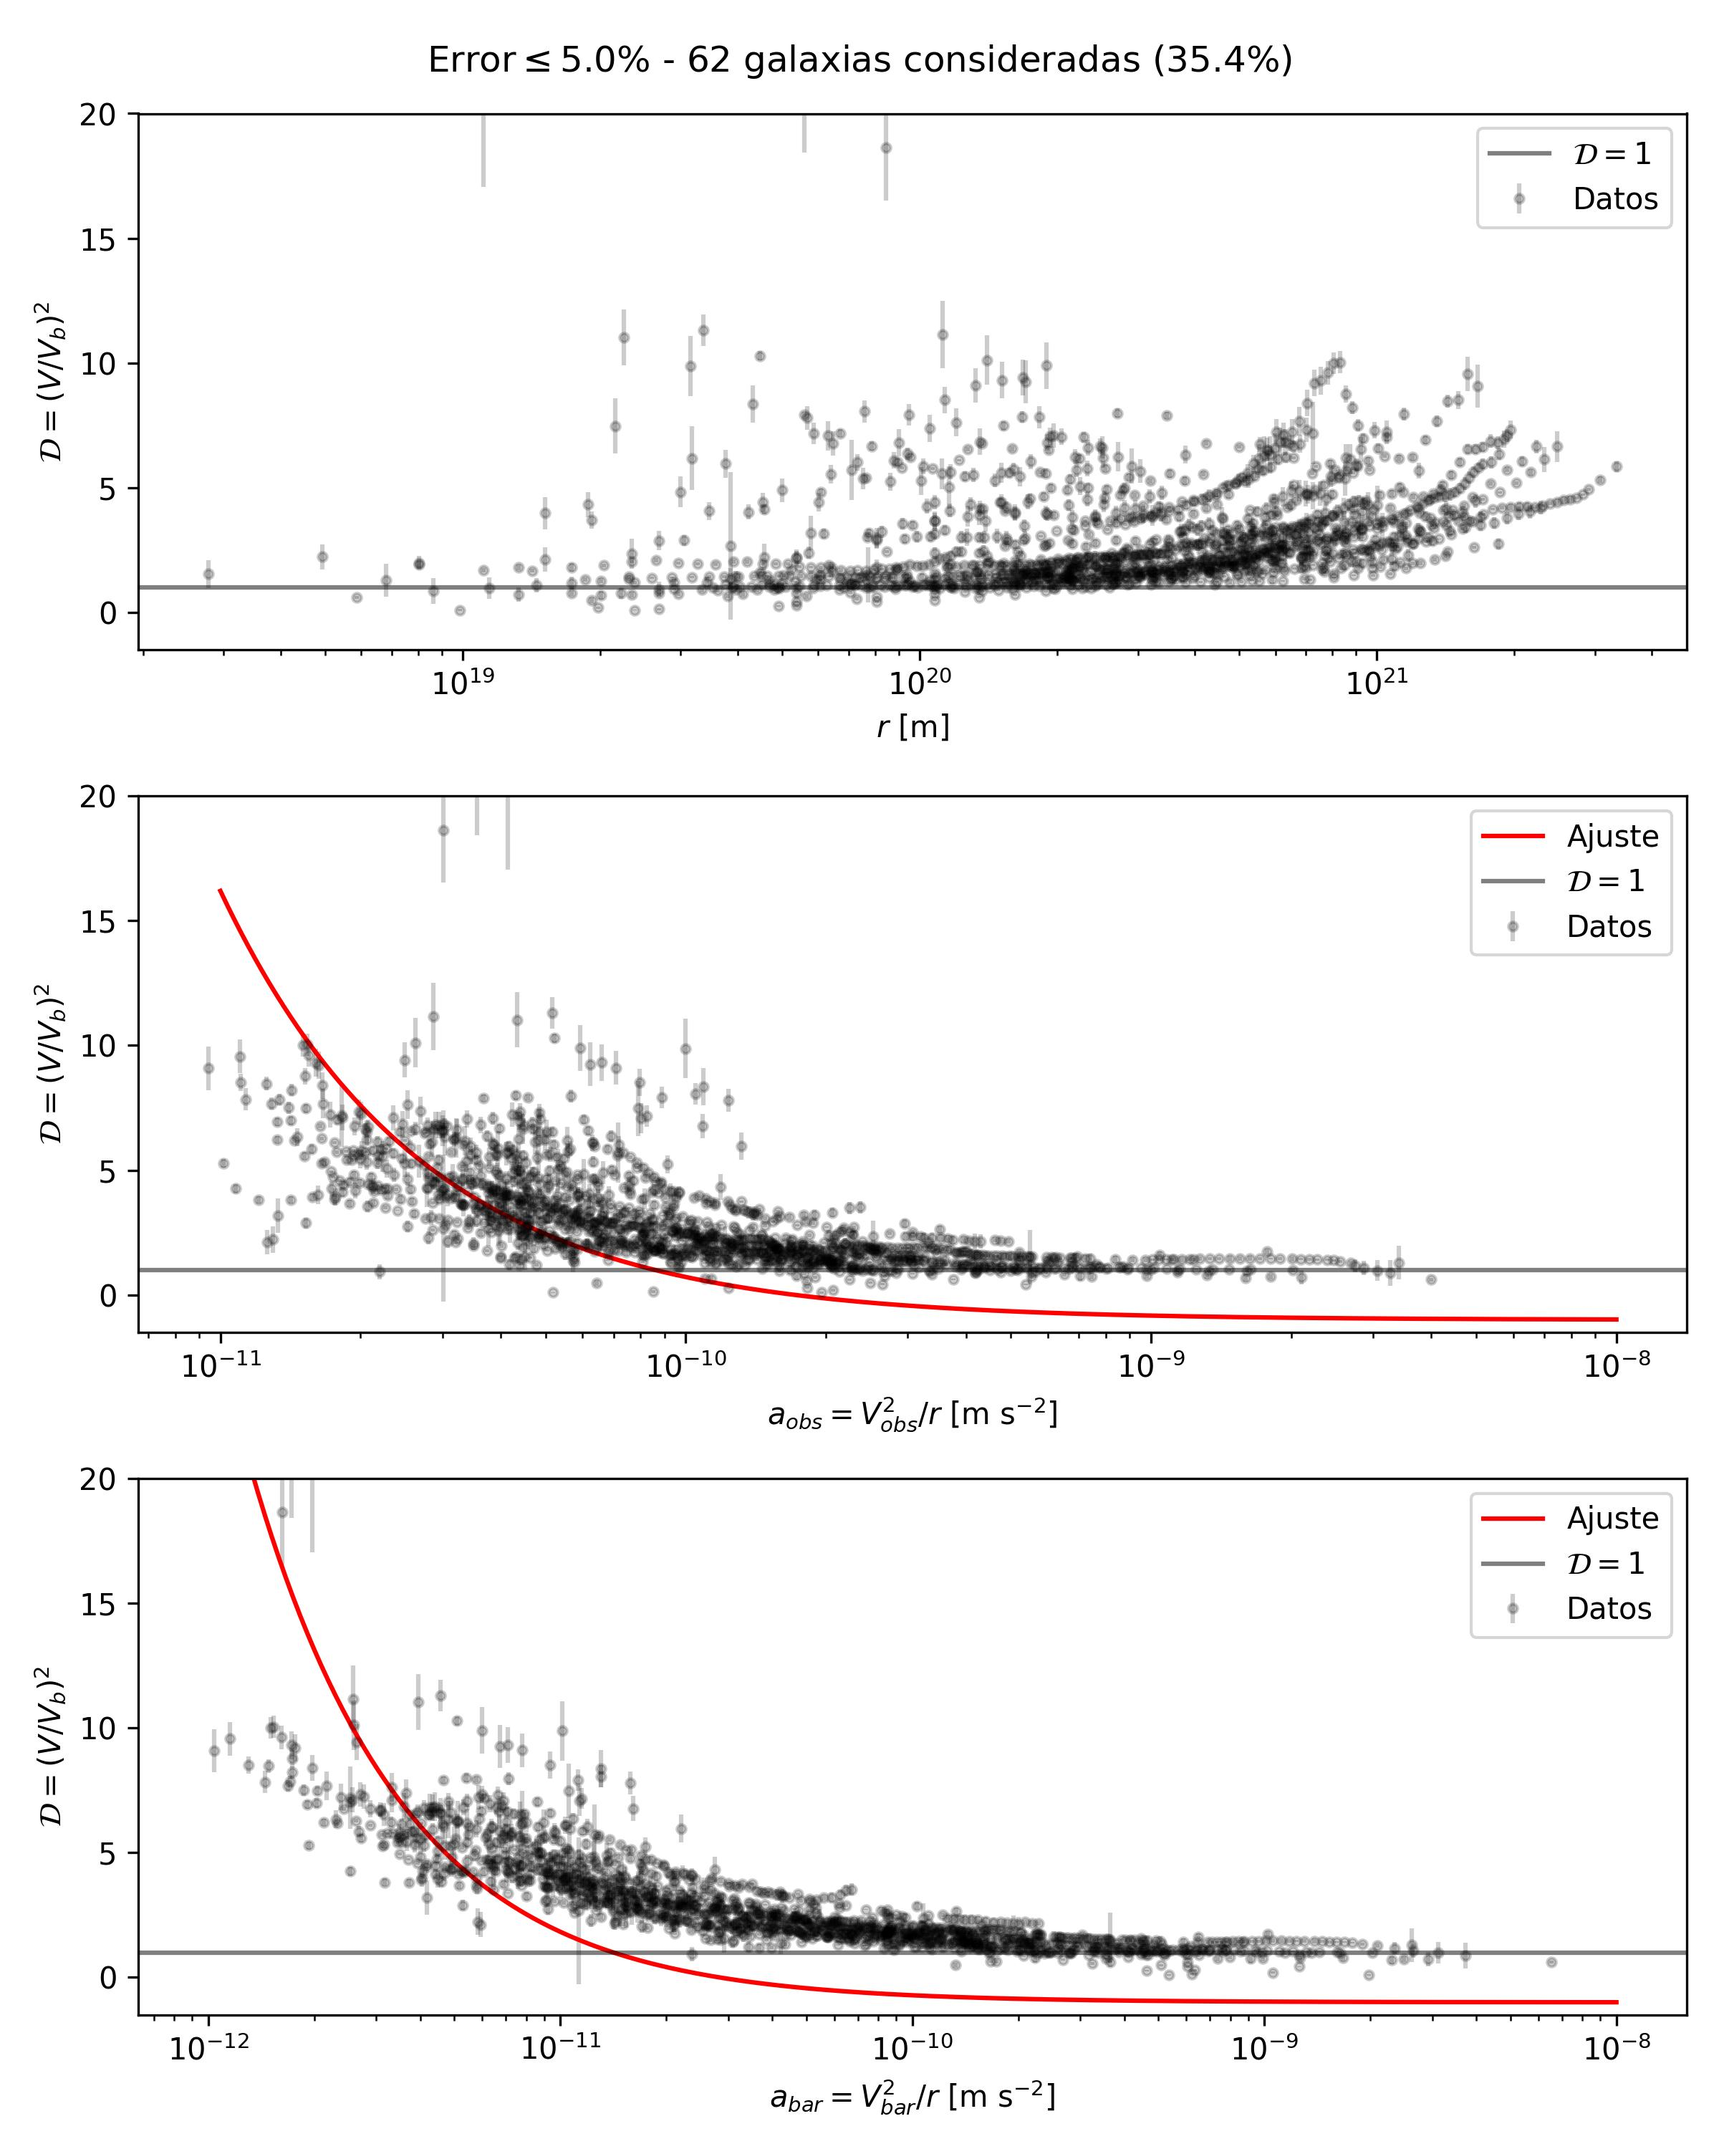
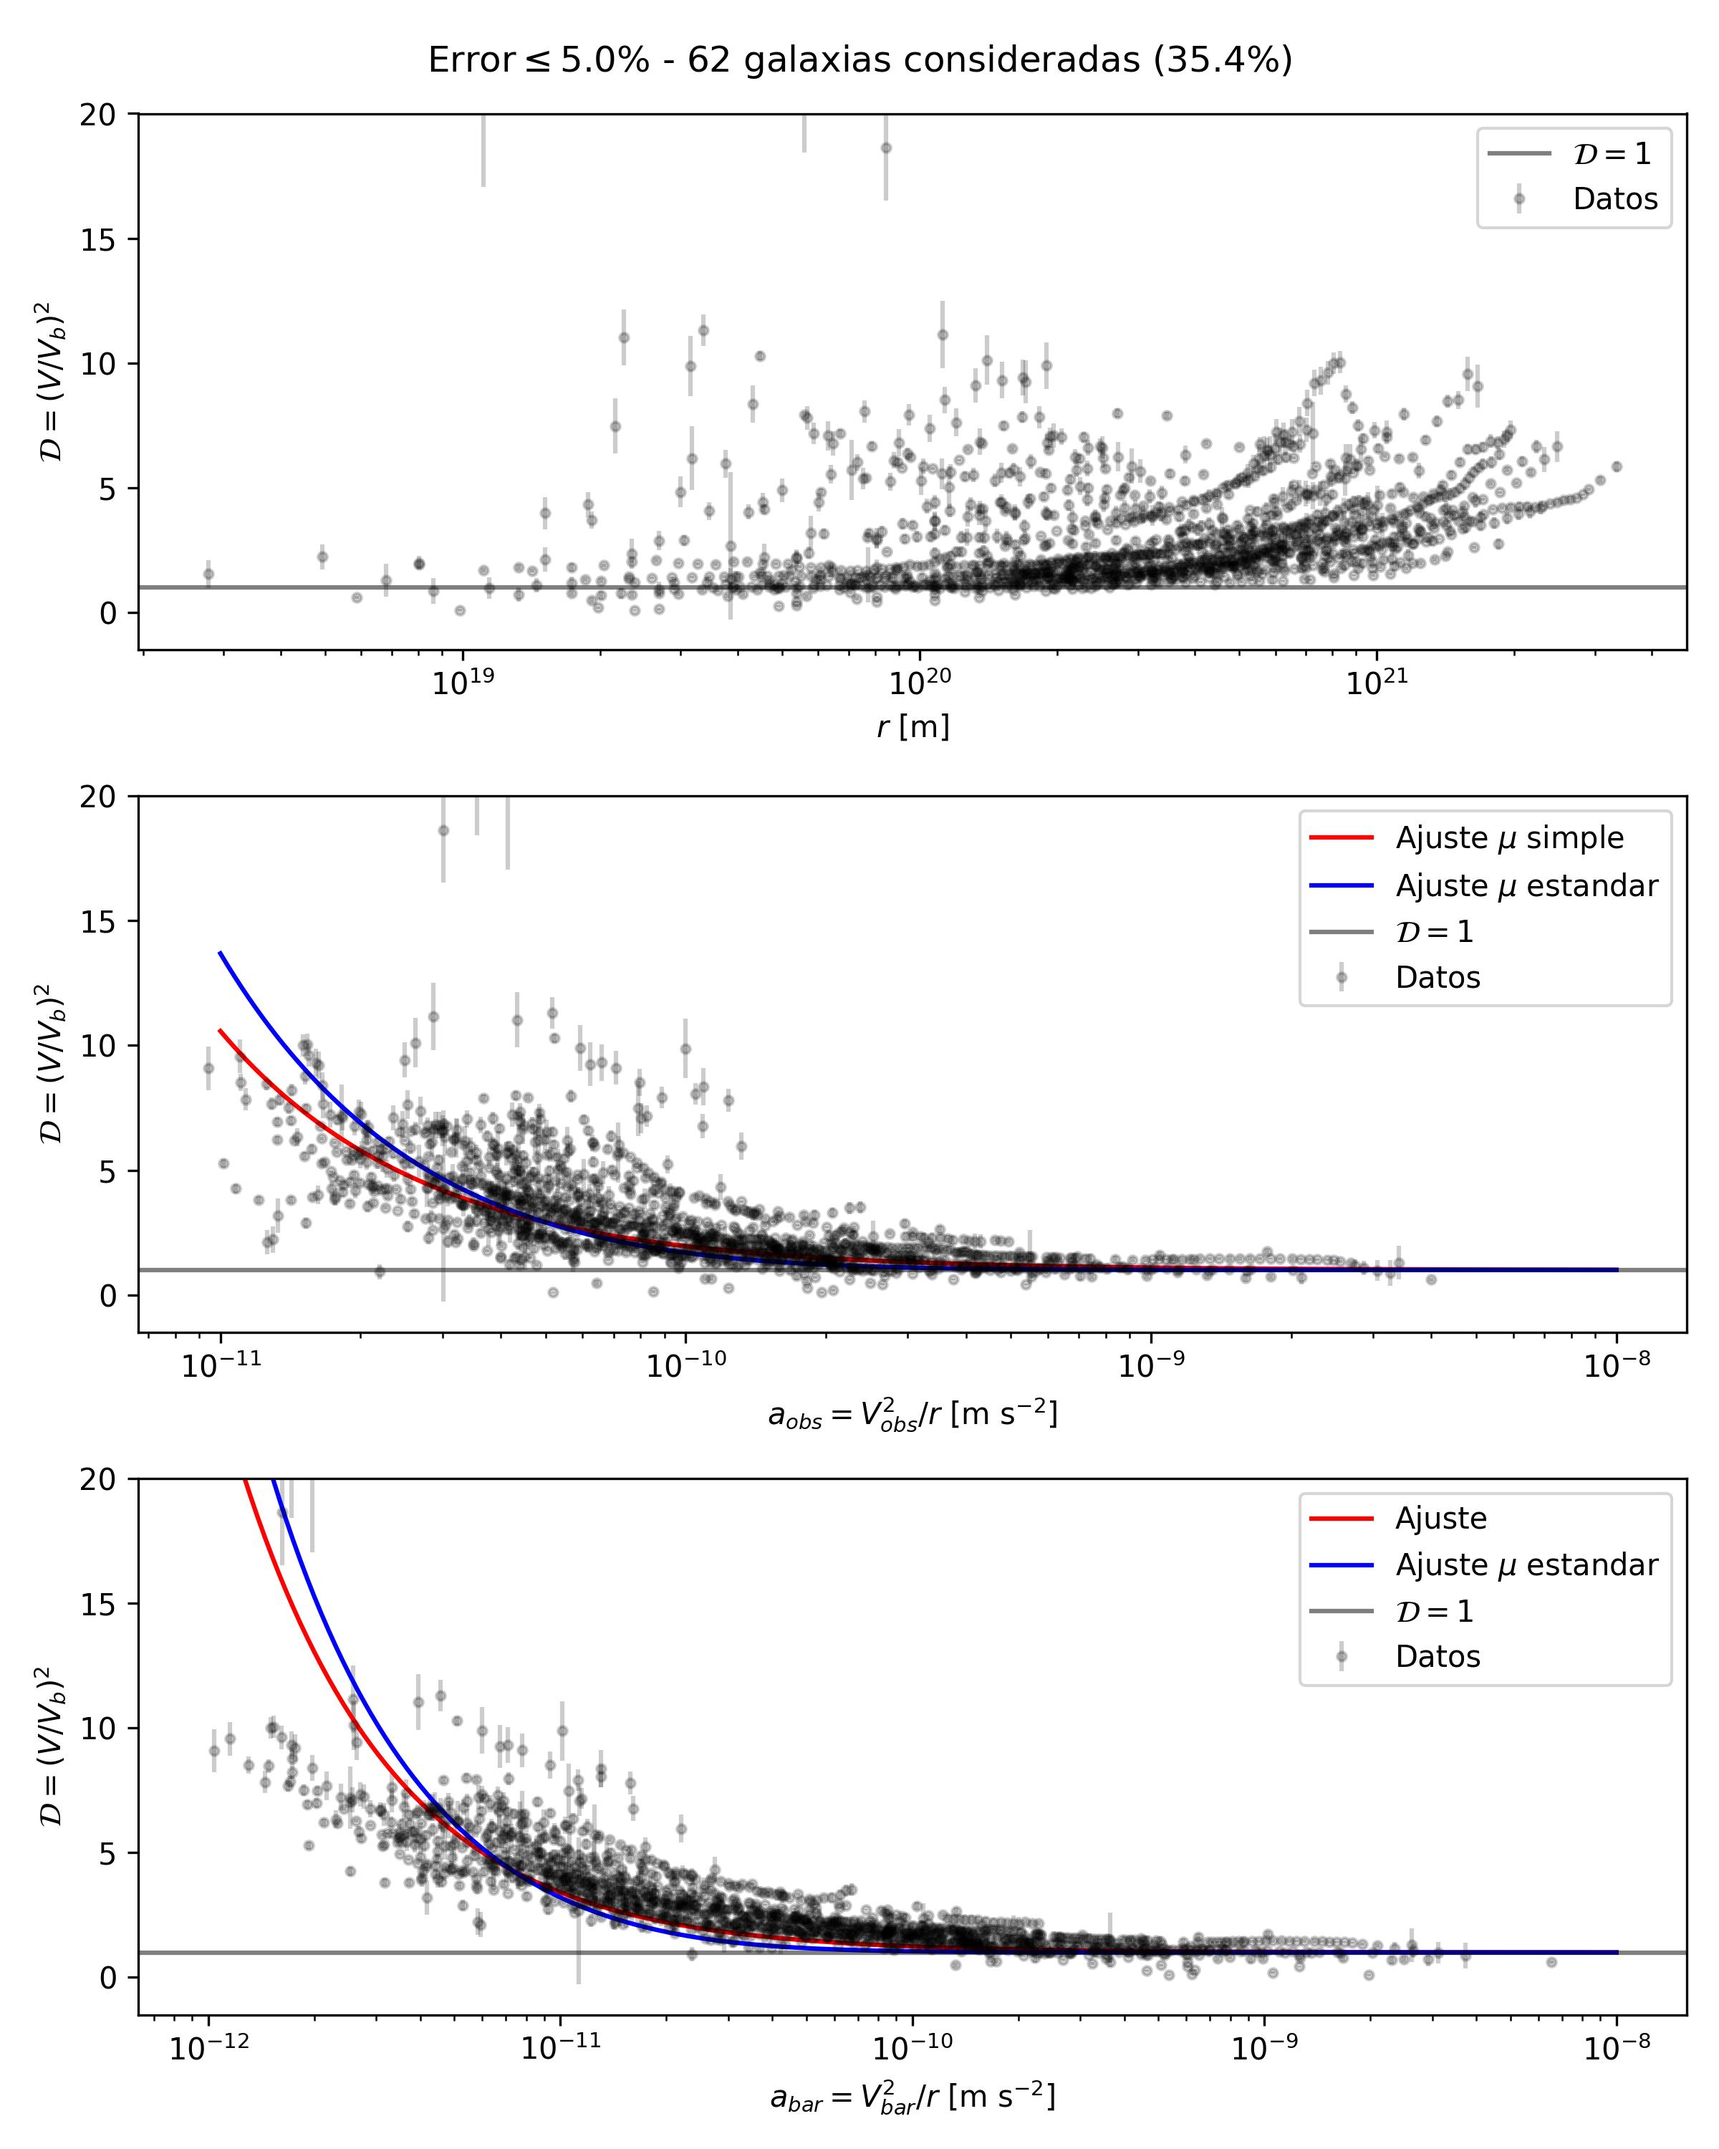
ajuste estándar agregado

diff --git a/mass_discrepancy/v3_mass_discrepancy.py b/mass_discrepancy/v3_mass_discrepancy.py
@@ -38,8 +38,8 @@ Aceleracion_barionica = np.array([], dtype='f')
 # mu_simple(x) = x/1+x
 # mu_estandar(x) = x/sqrt(1+x^2); x = a/a_0
 # a es la variable independiente
-def mu_inv_simple(a, a_0): return (1 - (a/a_0))/(a/a_0)
-def mu_inv_estandar(a, a_0): return np.sqrt(1 - (a/a_0)**2)/(a/a_0)
+def mu_inv_simple(a, a_0): return (1 + (a/a_0))/(a/a_0)
+def mu_inv_estandar(a, a_0): return np.sqrt(1 + (a/a_0)**2)/(a/a_0)
 
 
 # EXTRACCIÓN DE DATOS
@@ -90,22 +90,16 @@ for archivo in archivos_dat:
     Aceleracion_observable  = np.append(Aceleracion_observable, a_obs)
     Aceleracion_barionica   = np.append(Aceleracion_barionica, a_bar)
 
-# Discrepancia            = Discrepancia[~np.isnan(Discrepancia)]
-# Error_discrepancia      = Error_discrepancia[~np.isnan(Error_discrepancia)]
-# Aceleracion_barionica   = Aceleracion_barionica[~np.isnan(Aceleracion_barionica)]
+a0_obs_simple, cov_obs_simple = curve_fit(mu_inv_simple, Aceleracion_observable, Discrepancia, bounds=(10**(-11), 10**(-9)), nan_policy='omit', sigma=Error_discrepancia)
+a0_obs_estandar, cov_obs_estandar = curve_fit(mu_inv_estandar, Aceleracion_observable, Discrepancia, bounds=(10**(-11), 10**(-9)), nan_policy='omit', sigma=Error_discrepancia)
 
+a0_bar_simple, cov_bar_simple = curve_fit(mu_inv_simple, Aceleracion_barionica, Discrepancia, bounds=(10**(-11), 10**(-9)), nan_policy='omit', sigma=Error_discrepancia)
+a0_bar_estandar, cov_bar_estandar = curve_fit(mu_inv_estandar, Aceleracion_barionica, Discrepancia, bounds=(10**(-11), 10**(-9)), nan_policy='omit', sigma=Error_discrepancia)
 
-# print(len(Discrepancia          ))
-# print(len(Error_discrepancia    ))
-# print(len(Radio                 ))
-# print(len(Aceleracion_observable))
-# print(len(Aceleracion_barionica ))
-
-popt_aobs, pcov_aobs = curve_fit(mu_inv_simple, Aceleracion_observable, Discrepancia, bounds=(10**(-11), 10**(-9)), nan_policy='omit')
-popt_abar, pcov_abar = curve_fit(mu_inv_simple, Aceleracion_barionica, Discrepancia, bounds=(10**(-11), 10**(-9)), nan_policy='omit')
-
-print(popt_aobs, pcov_aobs)
-print(popt_abar, pcov_abar)
+print(a0_obs_simple, np.sqrt(cov_obs_simple))
+print(a0_obs_estandar, np.sqrt(cov_obs_estandar))
+print(a0_bar_simple, np.sqrt(cov_bar_simple))
+print(a0_bar_estandar, np.sqrt(cov_bar_estandar))
 
 # GENERACIÓN DE GRÁFICOS
 fig, (ax1, ax2, ax3) = plt.subplots(3, 1, figsize=(8, 10), dpi=300)
@@ -114,11 +108,13 @@ ax1.errorbar(Radio, Discrepancia, Error_discrepancia, fmt='k.', alpha=0.2, label
 
 x = np.logspace(-8, -11, num=200)
 ax2.errorbar(Aceleracion_observable, Discrepancia, Error_discrepancia, fmt='k.', alpha=0.2, label='Datos')
-ax2.plot(x, mu_inv_simple(x, popt_aobs), color='red', label='Ajuste')
+ax2.plot(x, mu_inv_simple(x, a0_obs_simple), color='red', label=r'Ajuste $\mu$ simple')
+ax2.plot(x, mu_inv_estandar(x, a0_obs_estandar), color='blue', label=r'Ajuste $\mu$ estandar')
 
 x = np.logspace(-8, -12, num=200)
 ax3.errorbar(Aceleracion_barionica, Discrepancia, Error_discrepancia, fmt='k.', alpha=0.2, label='Datos')
-ax3.plot(x, mu_inv_simple(x, popt_abar), color='red', label='Ajuste')
+ax3.plot(x, mu_inv_simple(x, a0_bar_simple), color='red', label='Ajuste')
+ax3.plot(x, mu_inv_estandar(x, a0_bar_estandar), color='blue', label=r'Ajuste $\mu$ estandar')
 
 for ax in (ax1, ax2, ax3):
     ax.set_ylim(-1.5, 20)

diff --git a/rotation_curves_fits/galaxy_rcfit.py b/rotation_curves_fits/galaxy_rcfit.py
@@ -34,11 +34,11 @@ def ajuste(archivo):
     error = 0
     error = np.average(errv/vobs)
 
+    # Los valores de la velocidad bariónica se vuelven nan si corresponden a valores de  vgas negativos
     if ignorar_valores_negativos:
         mascara_negativos = vgas < 0
         if mascara_negativos.any():
             ultimo_indice_vgas_negativo = np.where(mascara_negativos)[0][-1]
-            # Los valores de la velocidad bariónica se vuelven nan para vgas negativos
             # .iloc modifica las filas por su posición (desde 0 hasta el índice)
             vgas.iloc[:ultimo_indice_vgas_negativo + 1] = np.nan
             vdisk.iloc[:ultimo_indice_vgas_negativo + 1] = np.nan
@@ -47,6 +47,7 @@ def ajuste(archivo):
     Y_disk = 0.5 # Según Lelli et al. (2016), valor más realista para el Near-InfraRed (NIR)
     Y_bul = 1.4 * Y_disk # Lelli et al. (2016)
 
+    #vbar_2 = vbar^2
     vbar_2 = abs(vgas)*vgas + Y_disk * abs(vdisk) * vdisk + Y_bul * abs(vbul) * vbul
     D = vobs**2/vbar_2
 
